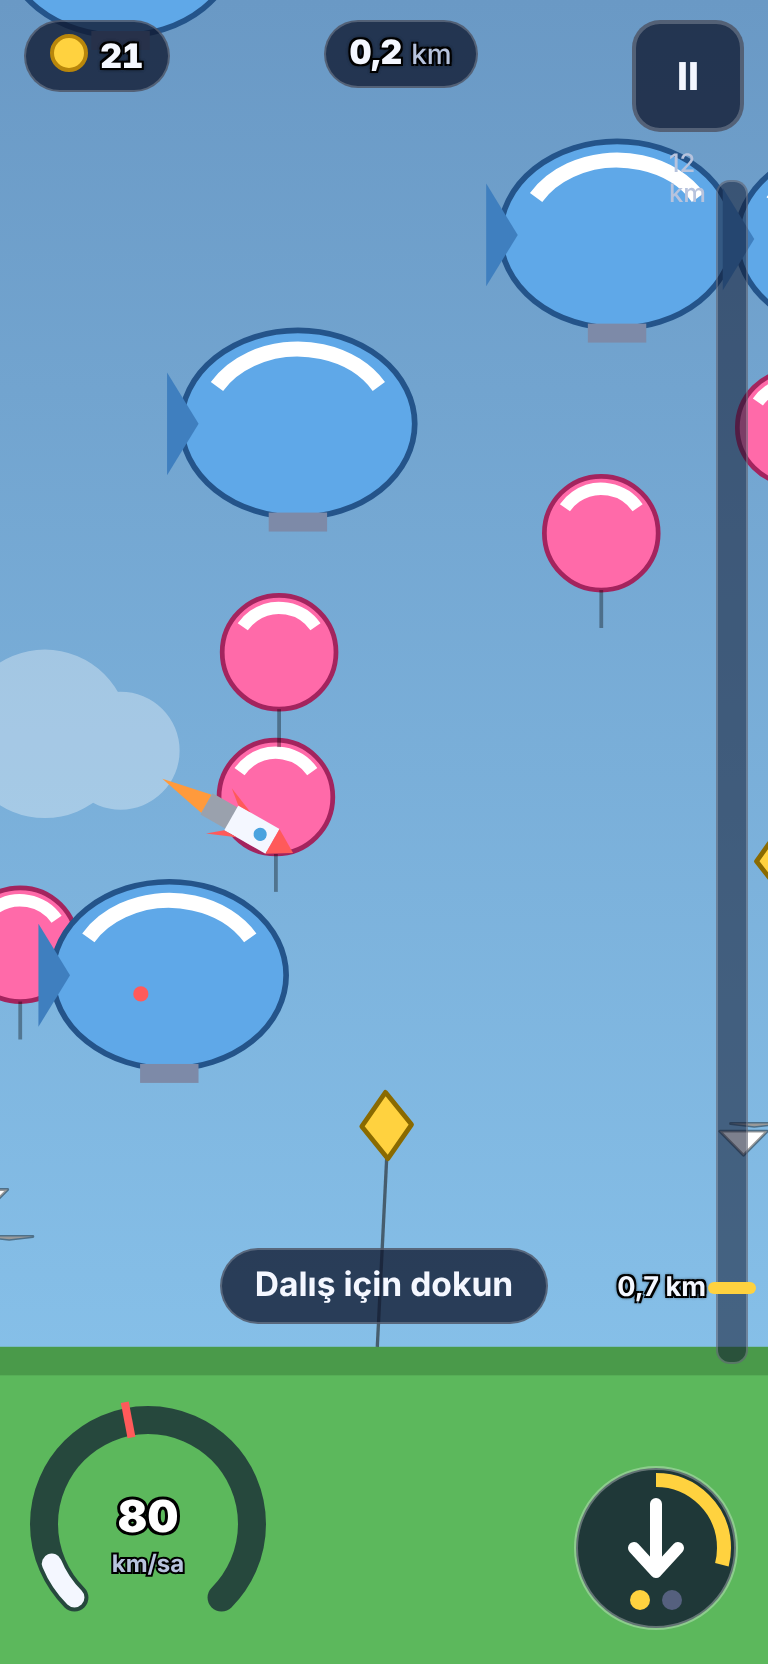
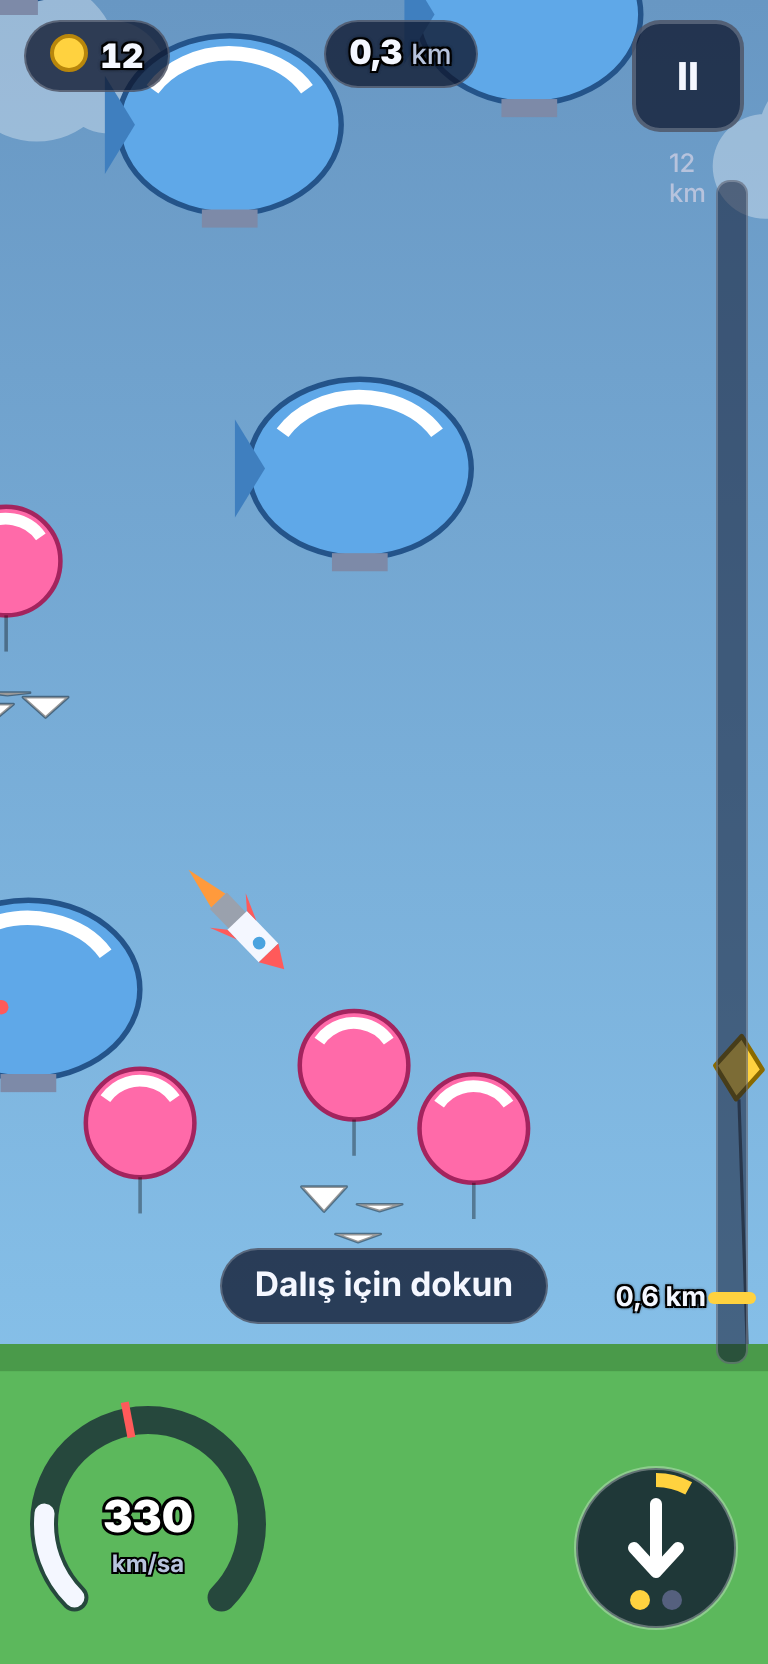
WIP: ara yedek
Claude-Session: https://claude.ai/code/session_01FT8SNz1Hsnax27do6pkEGm

diff --git a/oyun/b0/NOTLAR.md b/oyun/b0/NOTLAR.md
@@ -116,3 +116,31 @@ Bulgu bulgu durum: `MANTIK_RAPOR.md`; yeniden üretim: `test/mantik_test.py` (10
 ## Bilinen sınırlar
 
 - **Çoklu sekme:** aynı tarayıcıda oyun iki sekmede açılırsa her sekme kendi bellekteki kaydını yazar, son yazan kazanır (jeton/satın alma kaybolabilir). B0'da ele alınmadı (koordinatör kararı).
+
+## Testçi düzeltmeleri (testci/SORUNLAR.md)
+
+- **(1) Kara kutu ve hangar:** düğme çubuğu ekranın altına sabit (`position: sticky`), içerik kayıyor. Ana düğmeler tek satır: yazı boyutu `clamp(…, 6vw)` ve `nowrap`.
+- **(2) Ayarlar:** satırlar sarıyor (`flex-wrap`). Ekran içerikleri sıkışmıyor (`flex-shrink: 0`), TAMAM düğmesi altta sabit.
+- **(4) Hangar:** roket en az 110 px; kart açıklaması en az 13 px; ekran kayabiliyor.
+- **K15 genişletmesi:** `test/k15_genis.py`, 360×780, 384×832 ve 412×915 görünümlerinde × yazı 1,0/1,2/1,4. Hepsi geçti (9/9); görüntüler `test/k15/`.
+- **(6) Duraklatılmış turun kazancı:** §13.1 gereği görünür olunca `bekleyen = null` kalıyor (K13 bunu bekliyor). Kazanç aynı yazımda yeni `askida` alanına taşınıyor. `askida` DEVAM sayımı bitince ya da tur bitince siliniyor. Süreç bu arada ölürse açılışta bir kez ekleniyor.
+- **(7) Kayıt sınırları:** jeton ve bekleyen için üst sınır 1e9. İleri ya da bilinmeyen sürüm (`v: 99`) artık bozuk sayılmıyor: bilinen alanlar onarılıyor, bilinmeyen alanlar korunuyor, "Kayıt başka bir sürümden" bildirimi çıkıyor.
+- **(8) Olay günlüğü:** `__oyun.olaylar` artık yandan temas, martı, uçurtma gövdesi, ip ve balon patlamasını da içeriyor (`temas`, `ip`, `sondu`). Fizik ve rastgele çekim değişmedi.
+
+## Seyreltme (kullanıcı kararı) ve E3
+
+- Sim'de `ekran_hedef` 7 → 5, `nesne_prim` 2,8 → 3,1; yeni geçit kuralı E3 (`gecit`). JS'e birebir aktarıldı. Ayrıntı: `oyun/sim/RAPOR.md` §7.
+- Eşlik (200 tohum) tuttu.
+- B0 seyrekleşmesi (`b0_seyrek`) değişmeden hedefte kaldı (30 tohum): iyi botta 5–15. tur medyanı 47 s, tavana çarpan %6,7; orta 31 s / %1,5; hiç 19 s / %0. Ses duvarının ilk kırıldığı tur iyi 3, orta 4, hiç 6.
+
+## Motor sesi (kullanıcı: "uçuşta motor duyulmuyor")
+
+- **Neden (bulgu):**
+  - Motor yalnız `motor_ucus_b.mp3` çözüldüyse başlıyordu, sentez yedeği yoktu. Dosya yayında indirilemez ya da çözülemezse uçuş tamamen sessiz kalıyordu. Yayında `ses/` dosyalarının sayfanın yanında yayınlanıp yayınlanmadığı ayrıca doğrulanmalı.
+  - Dosya yüklense bile düzey düşüktü: dosya −20 LUFS, motor düzeyi ×0,5 × efekt kazancı (~0,57), müzik ise 0,45. Motor müziğin altında kalıyordu.
+  - İlk dokunuş ve AudioContext akışı doğruydu: tur ilk dokunuşu bekliyor, ses o dokunuşla başlıyor.
+- **Düzeltme:**
+  - mp3 yoksa sentez yedek motor çalıyor (testere 70 Hz + kare 140 Hz + süzülmüş gürültü; perde, filtre ve kazanç hıza göre). mp3 sonradan çözülünce mp3'e geçiyor.
+  - Motor düzeyi 0,5 → 0,8, müzik 0,45 → 0,38.
+  - `__oyun.sesDurum()` artık `{ac, motorAktif, motorTur, kazanc, perde, yuklu}` döndürüyor.
+- **Test:** `test/ses_test.py` iki yolu ölçüyor, ikisi de geçti. Normal yolda motor mp3, engelli yolda sentez; uçuşta aktif ve kazanç > 0, duraklatınca kesiliyor.

diff --git a/oyun/sim/RAPOR.md b/oyun/sim/RAPOR.md
@@ -99,3 +99,22 @@ Dayanıklılık (alıcı %30 rastgele): alışverişsiz seri en çok 2, çıkmaz
 ## 6. Simüle edilmedi
 
 Nadir olaylar, kapsül kartları, görevler, albüm, rüzgâr/dalga bulutu/fırtına, F5/F7/F8/F9, Süzülgen/Kancalı roket, hayalet, uçuşta rakip hasarı (yalnız rampa vuruşu), ölümcül nesneden kaçınan bot. Bot parametreleri (tepki, hata, mini oyun oranları, alışveriş değerleri) gerçek oyuncu verisiyle düzeltilmeli. Özellikle kotu botun alışverişi (§4.2).
+
+## 7. Seyreltme ve geçit kuralı (2026-10-08, kullanıcı kararı; uygulayıcı)
+
+Kullanıcı B0'ı telefonda denedi: "nesneler çok yoğun, bir şeye çarpmadan uçulmuyor".
+
+- **Yoğunluk:** `ekran_hedef` 7 → **5** (~%30 seyrek). `kontrol` yoğunluk aralığı 7–12 → 5–9 oldu; ölçülen ortalama 6,9.
+- **E3 geçit kuralı (`gecit`):** roketin pasif yoluna doğan aday (|y − rota_y| < r + r_roket), aynı sütunda üstünde ya da altında en az 2·(r_roket + `kacis_pay` 4) = 16 b boşluk bırakmıyorsa reddedilir. Alt sınır zemin. Rastgele çekim yok; çekim sırası değişmedi. `ekle` içinde, E2'den sonra uygulanıyor.
+- **Ekonomi düzeltmesi:** daha az temas geliri düşürdü. `nesne_prim` 2,8 → **3,1** ile karşılandı (en az sapma). Ölçüm 20 tohumluk kampanya, tur 1'de 40 tohum:
+
+| | Eski (7, ×2,8) | Yeni (5, ×2,8) | Yeni (5, ×3,1) |
+|---|---|---|---|
+| iyi: ses duvarı ilk tur (medyan) | 3 | 4 | **3** |
+| iyi: tur 5 / 15 kazanç | 415 / 2.343 | 382 / 2.547 | 451 / 2.565 |
+| hic: tur 5 / 15 kazanç | 160 / 404 | 119 / 426 | 139 / 402 |
+| iyi: tropopoz ilk tur | 10,5 | 9 | 9 |
+| iyi: 25 turda tavana çarpan | %18 | %13 | %15 |
+| tur 1 süre (iyi / hic) | 17,3 / 16,2 s | 16,5 / 15,9 s | — |
+
+- **Kalan sapma:** hic botunun tur 5 kazancı eskiden %13 düşük (139'a karşı 160); tur 15'te aynı. İyi botun tur 1 vay ≤ 5 s oranı 0,90'dan 0,97'ye çıktı (daha az martı/uçurtma freni).
